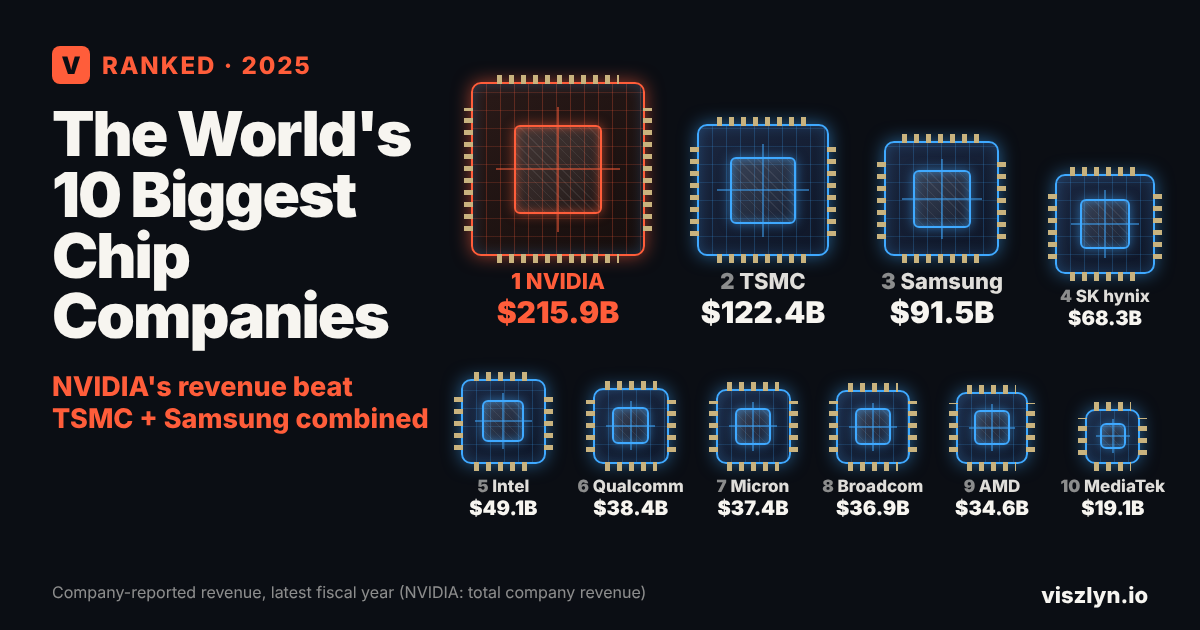
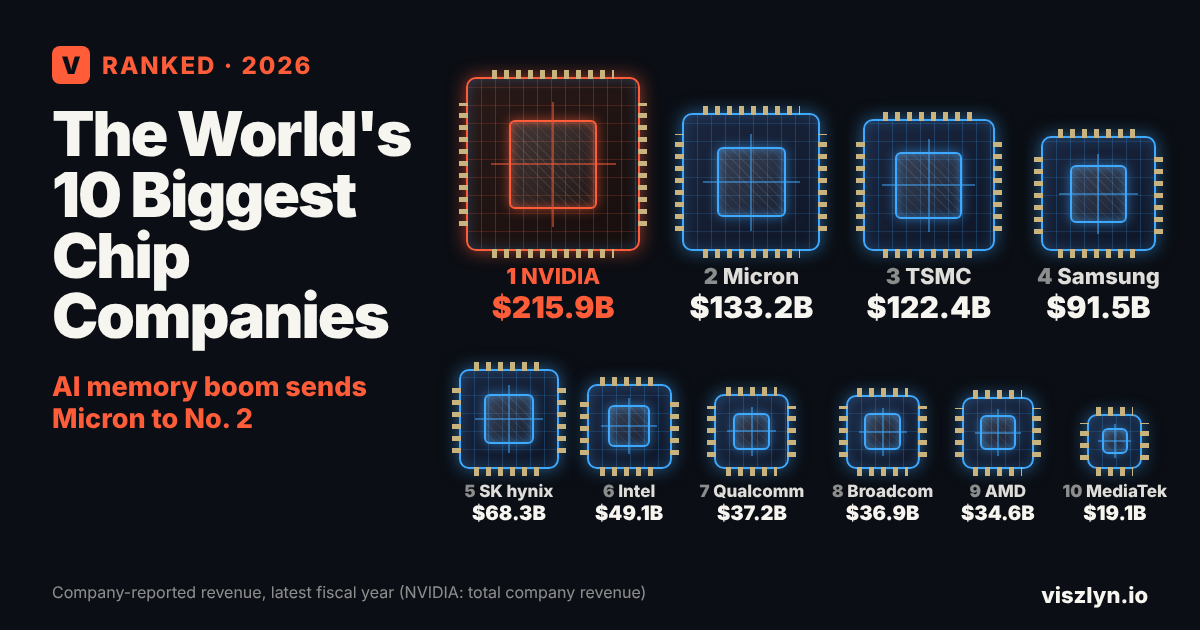
Update chip companies ranking: Micron FY2026 to No. 2, Qualcomm FY2026 QCT
Micron fiscal 2026 revenue $133,188M (8-K) and Qualcomm QCT $37,208M
(10-K). Fiscal-year mismatch explained, rank-change badges vs the Nov 10
edition, 10 Wikimedia Commons entry photos and a refreshed hero.

Claude-Session: https://claude.ai/code/session_01Lx7Mnbsr2j6Zre36XCS9Kp

Changed region(s): [[0.37, 0.0905, 0.9867, 0.5127], [0.0308, 0.573, 0.9867, 0.8444], [0.2467, 0.0905, 0.2775, 0.1206]]

diff --git a/src/data/rankings/biggest-chip-companies-2026.ts b/src/data/rankings/biggest-chip-companies-2026.ts
@@ -5,52 +5,53 @@ const SRC = "Company annual results (latest fiscal year)";
 export const biggestChipCompanies2026: RankingArticle = {
   slug: "biggest-chip-companies-2026",
 
-  metaTitle: "The 10 Biggest Chip Companies by Revenue in 2025, Ranked | Viszlyn",
+  metaTitle: "The 10 Biggest Chip Companies by Revenue in 2026, Ranked | Viszlyn",
   metaDescription:
-    "NVIDIA reported $215.9 billion in total revenue, ahead of TSMC ($122.4B) and Samsung's chip division ($91.5B). See the 10 biggest chip companies by reported revenue.",
+    "NVIDIA reported $215.9 billion in revenue. Micron jumped to No. 2 ($133.2B) on the AI memory boom, ahead of TSMC ($122.4B). See the 10 biggest chip companies by reported revenue.",
   ogTitle: "The World's 10 Biggest Chip Companies by Revenue",
   ogDescription:
     "NVIDIA reported $215.9B in total revenue, and its data center sales alone ($193.7B) beat any other chip company's reported revenue. The 10 biggest chipmakers, from their own reports.",
   twitterTitle: "Ranked: The World's 10 Biggest Chip Companies",
   twitterDescription:
-    "NVIDIA $215.9B, TSMC $122.4B, Samsung $91.5B. The 10 biggest semiconductor companies by revenue, from their latest annual results.",
+    "NVIDIA $215.9B, Micron $133.2B, TSMC $122.4B. The 10 biggest semiconductor companies by revenue, from their latest annual results.",
 
   eyebrow: "Business",
-  title: "The World's 10 Biggest Chip Companies by Revenue in 2025",
-  dek: "Ranked by the revenue each company reports for its chip business in its latest fiscal year. AI has put NVIDIA far ahead of every other chipmaker.",
+  title: "The World's 10 Biggest Chip Companies by Revenue in 2026",
+  dek: "Ranked by the revenue each company reports for its chip business in its latest fiscal year. AI has put NVIDIA far ahead of every other chipmaker, and the AI memory boom has sent Micron to No. 2.",
   publishedDate: "November 10, 2026",
-  lastUpdated: "November 10, 2026",
-  dataPeriod: "Latest fiscal year ending in 2025 or January 2026",
+  lastUpdated: "November 25, 2026",
+  dataPeriod: "Latest full fiscal year reported by November 25, 2026",
   heroImage: {
     src: "/heroes/biggest-chip-companies-2026.png",
     ogSrc: "/heroes/biggest-chip-companies-2026-og.png",
-    alt: "Bar chart of the world's 10 biggest chip companies by semiconductor revenue in their latest fiscal year, led by NVIDIA at $215.9 billion, then TSMC at $122.4 billion and Samsung at $91.5 billion.",
+    alt: "Bar chart of the world's 10 biggest chip companies by semiconductor revenue in their latest fiscal year, led by NVIDIA at $215.9 billion, then Micron at $133.2 billion and TSMC at $122.4 billion.",
   },
 
   quickAnswer:
-    "NVIDIA is the world's biggest chip company by reported revenue, with $215.9 billion in its fiscal year ended January 2026, up 65%. That is NVIDIA's total company revenue, which includes complete systems and software as well as chips. TSMC, which manufactures chips for other companies, is second with $122.4 billion, and Samsung's chip division is third with about $91.5 billion. NVIDIA's data center business alone brought in $193.7 billion. These are company-reported figures, not a standardized measure of chip sales like Gartner's.",
+    "NVIDIA is the world's biggest chip company by reported revenue, with $215.9 billion in its fiscal year ended January 2026, up 65%. That is NVIDIA's total company revenue, which includes complete systems and software as well as chips. Micron is second with $133.2 billion in its fiscal year ended September 2026, more than three and a half times its previous year, as AI drove demand for memory. TSMC, which manufactures chips for other companies, is third with $122.4 billion. NVIDIA's data center business alone brought in $193.7 billion. These are company-reported figures, not a standardized measure of chip sales like Gartner's.",
   introParagraph:
-    "This ranking uses the revenue each company reports for its chip business, or for the whole company where chips are its main business, in its latest full fiscal year. It is not a standardized market-share ranking: for NVIDIA, for example, the figure is total company revenue, which also includes complete data center systems and software. For companies that also sell other things, only the semiconductor part is counted: Samsung's Device Solutions division, Intel's product segments, Qualcomm's chip business (QCT) and Broadcom's semiconductor segment. Companies end their fiscal years at different times, from August 2025 (Micron) to January 2026 (NVIDIA), so the periods don't line up exactly. TSMC is included even though it is a foundry, a contract manufacturer that makes chips designed by other companies, including NVIDIA, AMD and Apple.",
+    "This ranking uses the revenue each company reports for its chip business, or for the whole company where chips are its main business, in its latest full fiscal year. It is not a standardized market-share ranking: for NVIDIA, for example, the figure is total company revenue, which also includes complete data center systems and software. For companies that also sell other things, only the semiconductor part is counted: Samsung's Device Solutions division, Intel's product segments, Qualcomm's chip business (QCT) and Broadcom's semiconductor segment. Companies end their fiscal years at different times, from November 2025 (Broadcom) to September 2026 (Micron and Qualcomm), so the periods don't line up: this is a table of each company's latest reported year, not one shared 12-month period. TSMC is included even though it is a foundry, a contract manufacturer that makes chips designed by other companies, including NVIDIA, AMD and Apple.",
   calloutBox: {
-    label: "AI made NVIDIA the giant of the chip industry",
-    body: "NVIDIA's revenue rose from $130.5 billion to $215.9 billion in one fiscal year. Its data center business, which sells the processors and networking used to train and run AI, accounted for $193.7 billion of that, up 68%. AI demand is also lifting memory makers: SK hynix's revenue rose about 47% and Micron's about 49%, helped by high-bandwidth memory (HBM) used in AI chips.",
+    label: "AI made NVIDIA the giant, and memory the boom",
+    body: "NVIDIA's revenue rose from $130.5 billion to $215.9 billion in one fiscal year. Its data center business, which sells the processors and networking used to train and run AI, accounted for $193.7 billion of that, up 68%. AI demand has also lifted memory makers. SK hynix's revenue rose 46.8% in 2025, and Micron's jumped from $37.4 billion to $133.2 billion in its fiscal year ended September 3, 2026. Micron's year runs nine months later than most companies here, so it captures more of the 2026 memory boom; it was also a 53-week year.",
   },
 
+  comparisonLabel: "the November 10, 2026 edition",
   chartTitle: "Company-reported revenue used in this ranking, latest fiscal year (US$ billions)",
   chartSource: SRC,
   chartTapNote: "NVIDIA's figure is total company revenue, including systems and software. For other diversified companies, the ranking uses the stated chip division or segment. These figures are not a standardized measure of chip sales. Tap any company to jump to its full breakdown below.",
   entryValueLabel: "Reported revenue:",
   chartItems: [
-    { rank: 1, name: "NVIDIA", value: "$215.9B", raw: 215.9 },
-    { rank: 2, name: "TSMC", value: "$122.4B", raw: 122.4 },
-    { rank: 3, name: "Samsung", value: "$91.5B", raw: 91.5 },
-    { rank: 4, name: "SK hynix", value: "$68.3B", raw: 68.3 },
-    { rank: 5, name: "Intel", value: "$49.1B", raw: 49.1 },
-    { rank: 6, name: "Qualcomm", value: "$38.4B", raw: 38.4 },
-    { rank: 7, name: "Micron", value: "$37.4B", raw: 37.4 },
-    { rank: 8, name: "Broadcom", value: "$36.9B", raw: 36.9 },
-    { rank: 9, name: "AMD", value: "$34.6B", raw: 34.6 },
-    { rank: 10, name: "MediaTek", value: "$19.1B", raw: 19.1 },
+    { rank: 1, name: "NVIDIA", value: "$215.9B", raw: 215.9, prevRank: 1 },
+    { rank: 2, name: "Micron", value: "$133.2B", raw: 133.2, prevRank: 7 },
+    { rank: 3, name: "TSMC", value: "$122.4B", raw: 122.4, prevRank: 2 },
+    { rank: 4, name: "Samsung", value: "$91.5B", raw: 91.5, prevRank: 3 },
+    { rank: 5, name: "SK hynix", value: "$68.3B", raw: 68.3, prevRank: 4 },
+    { rank: 6, name: "Intel", value: "$49.1B", raw: 49.1, prevRank: 5 },
+    { rank: 7, name: "Qualcomm", value: "$37.2B", raw: 37.2, prevRank: 6 },
+    { rank: 8, name: "Broadcom", value: "$36.9B", raw: 36.9, prevRank: 8 },
+    { rank: 9, name: "AMD", value: "$34.6B", raw: 34.6, prevRank: 9 },
+    { rank: 10, name: "MediaTek", value: "$19.1B", raw: 19.1, prevRank: 10 },
   ],
 
   detailedEntries: [
@@ -64,6 +65,7 @@ export const biggestChipCompanies2026: RankingArticle = {
       standoutFact: "It is one of only two Taiwanese companies in the top 10, alongside TSMC, which manufactures many of MediaTek's chips.",
       sourceTag: "MediaTek consolidated financial statements, 2025",
       wikipediaUrl: "https://en.wikipedia.org/wiki/MediaTek",
+      image: { src: "/rankings/biggest-chip-companies-2026/mediatek.webp", width: 1200, height: 900, alt: "Glass-fronted MediaTek headquarters building in Hsinchu, Taiwan", author: "CURSKA", license: "CC BY-SA 4.0", licenseUrl: "https://creativecommons.org/licenses/by-sa/4.0", sourceUrl: "https://commons.wikimedia.org/wiki/File:MEdiaTek%E6%9C%AC%E7%A4%BE.jpg", caption: "MediaTek headquarters, Hsinchu, Taiwan." },
     },
     {
       rank: 9,
@@ -75,6 +77,7 @@ export const biggestChipCompanies2026: RankingArticle = {
       standoutFact: "Its data center segment, which includes its AI accelerators, brought in $16.6 billion, up 32%, about half of AMD's total revenue.",
       sourceTag: "AMD 2025 annual results",
       wikipediaUrl: "https://en.wikipedia.org/wiki/AMD",
+      image: { src: "/rankings/biggest-chip-companies-2026/amd.webp", width: 1200, height: 887, alt: "AMD's glass office building at 2485 Augustine Drive, Santa Clara", author: "Coolcaesar", license: "CC BY-SA 4.0", licenseUrl: "https://creativecommons.org/licenses/by-sa/4.0", sourceUrl: "https://commons.wikimedia.org/wiki/File:2485_Augustine_Drive_headquarters_in_Santa_Clara,_California.jpg", caption: "AMD headquarters, Santa Clara, California." },
     },
     {
       rank: 8,
@@ -86,42 +89,34 @@ export const biggestChipCompanies2026: RankingArticle = {
       standoutFact: "Broadcom says its AI revenue reached $20 billion in fiscal 2025, up 65%, from custom AI chips and networking products.",
       sourceTag: "Broadcom fiscal 2025 results",
       wikipediaUrl: "https://en.wikipedia.org/wiki/Broadcom",
+      image: { src: "/rankings/biggest-chip-companies-2026/broadcom.webp", width: 1200, height: 900, alt: "Broadcom sign in front of its headquarters building in Irvine, California", author: "Coolcaesar", license: "CC BY-SA 3.0", licenseUrl: "https://creativecommons.org/licenses/by-sa/3.0", sourceUrl: "https://commons.wikimedia.org/wiki/File:Broadcomheadquarters.jpg", caption: "Broadcom's headquarters building, Irvine, California." },
     },
     {
       rank: 7,
-      name: "Micron",
-      earnings: "$37.4 billion",
-      category: "United States · Memory",
-      revenueSources: "DRAM, high-bandwidth memory (HBM), NAND flash storage",
-      blurb: "Micron's revenue was $37,378 million in its fiscal year ended August 28, 2025, up 48.9%, the second-fastest growth in the top 10 after NVIDIA.",
-      standoutFact: "Micron says its HBM and other data center memory products together brought in $10 billion in fiscal 2025. Because its fiscal year ended in August, its figures don't include the last four months of 2025.",
-      sourceTag: "Micron fiscal 2025 results",
-      wikipediaUrl: "https://en.wikipedia.org/wiki/Micron_Technology",
+      name: "Qualcomm",
+      earnings: "$37.2 billion",
+      category: "United States · Chip designer",
+      revenueSources: "Smartphone processors, automotive and IoT chips",
+      blurb: "Qualcomm's chip business (QCT) brought in $37,208 million in its fiscal year ended September 27, 2026, down 3.0% from $38,367 million. This excludes its patent licensing business (QTL); total company revenue was $43,120 million.",
+      standoutFact: "Handset chips still made up $24,072 million of QCT revenue, but fell 13.4%, while automotive chips grew 51.7% to $6,004 million.",
+      sourceTag: "Qualcomm Form 10-K, fiscal 2026",
+      wikipediaUrl: "https://en.wikipedia.org/wiki/Qualcomm",
+      image: { src: "/rankings/biggest-chip-companies-2026/qualcomm.webp", width: 1200, height: 1028, alt: "Qualcomm headquarters tower in San Diego", author: "Coolcaesar", license: "CC BY-SA 4.0", licenseUrl: "https://creativecommons.org/licenses/by-sa/4.0", sourceUrl: "https://commons.wikimedia.org/wiki/File:Qualcomm_Headquarters_La_Jolla.jpg", caption: "Qualcomm headquarters, San Diego, California." },
     },
     {
       rank: 6,
-      name: "Qualcomm",
-      earnings: "$38.4 billion",
-      category: "United States · Chip designer",
-      revenueSources: "Smartphone processors, automotive and IoT chips",
-      blurb: "Qualcomm's chip business (QCT) brought in $38,367 million in its fiscal year ended September 28, 2025, up 15.6%. This excludes its patent licensing business (QTL).",
-      standoutFact: "Qualcomm's Snapdragon processors are used in many of the world's Android smartphones, its biggest chip market.",
-      sourceTag: "Qualcomm fiscal 2025 results",
-      wikipediaUrl: "https://en.wikipedia.org/wiki/Qualcomm",
-    },
-    {
-      rank: 5,
       name: "Intel",
       earnings: "$49.1 billion",
       category: "United States · Chip designer and manufacturer",
       revenueSources: "PC processors, data center and AI chips",
       blurb: "Intel's product segments (Client Computing and Data Center and AI) brought in $49,147 million in 2025. Including its foundry business, Intel's total revenue was $52,853 million.",
-      standoutFact: "Intel is the only company in the top 10 whose chip revenue fell, down 0.7% from $49,471 million in 2024.",
+      standoutFact: "Intel's chip revenue fell 0.7% from $49,471 million in 2024. Qualcomm's QCT is the only other top-10 figure that fell.",
       sourceTag: "Intel 2025 annual results",
       wikipediaUrl: "https://en.wikipedia.org/wiki/Intel",
+      image: { src: "/rankings/biggest-chip-companies-2026/intel.webp", width: 1200, height: 802, alt: "Intel's Robert Noyce Building headquarters in Santa Clara", author: "Coolcaesar", license: "CC BY-SA 4.0", licenseUrl: "https://creativecommons.org/licenses/by-sa/4.0", sourceUrl: "https://commons.wikimedia.org/wiki/File:Intel_Headquarters_in_2023.jpg", caption: "Intel headquarters (Robert Noyce Building), Santa Clara, California, 2023." },
     },
     {
-      rank: 4,
+      rank: 5,
       name: "SK hynix",
       earnings: "$68.3 billion",
       category: "South Korea · Memory",
@@ -130,9 +125,10 @@ export const biggestChipCompanies2026: RankingArticle = {
       standoutFact: "SK hynix says its revenue from high-bandwidth memory, used in AI processors, more than doubled in 2025.",
       sourceTag: "SK hynix FY2025 results",
       wikipediaUrl: "https://en.wikipedia.org/wiki/SK_Hynix",
+      image: { src: "/rankings/biggest-chip-companies-2026/sk-hynix.webp", width: 1200, height: 900, alt: "Close-up of an SK hynix memory chip on a blue circuit board", author: "Raimond Spekking", license: "CC BY-SA 4.0", licenseUrl: "https://creativecommons.org/licenses/by-sa/4.0", sourceUrl: "https://commons.wikimedia.org/wiki/File:SK_Hynix_-_H5TC4G83MFR-8390.jpg", caption: "An SK hynix DDR3L memory chip." },
     },
     {
-      rank: 3,
+      rank: 4,
       name: "Samsung",
       earnings: "$91.5 billion",
       category: "South Korea · Memory, chip design and manufacturing",
@@ -141,9 +137,10 @@ export const biggestChipCompanies2026: RankingArticle = {
       standoutFact: "Samsung's figure includes Samsung Foundry, its contract manufacturing business, which it does not report separately.",
       sourceTag: "Samsung Electronics FY2025 results",
       wikipediaUrl: "https://en.wikipedia.org/wiki/Samsung_Electronics",
+      image: { src: "/rankings/biggest-chip-companies-2026/samsung.webp", width: 900, height: 1200, alt: "Samsung Electronics headquarters tower in Suwon, South Korea", author: "hyolee2", license: "CC BY-SA 4.0", licenseUrl: "https://creativecommons.org/licenses/by-sa/4.0", sourceUrl: "https://commons.wikimedia.org/wiki/File:Samsung_Electronics_Suwon.JPG", caption: "Samsung Electronics headquarters, Suwon, South Korea." },
     },
     {
-      rank: 2,
+      rank: 3,
       name: "TSMC",
       earnings: "$122.4 billion",
       category: "Taiwan · Foundry (contract manufacturer)",
@@ -152,6 +149,19 @@ export const biggestChipCompanies2026: RankingArticle = {
       standoutFact: "TSMC doesn't design its own chips; it manufactures them for other companies, which is why some industry rankings, such as Gartner's, leave it out.",
       sourceTag: "TSMC 4Q25 Management Report",
       wikipediaUrl: "https://en.wikipedia.org/wiki/TSMC",
+      image: { src: "/rankings/biggest-chip-companies-2026/tsmc.webp", width: 1200, height: 801, alt: "TSMC headquarters and Fab 12A in Hsinchu at dusk, with light trails from traffic", author: "曾 成訓", license: "CC BY 2.0", licenseUrl: "https://creativecommons.org/licenses/by/2.0", sourceUrl: "https://commons.wikimedia.org/wiki/File:TSMC_Fab_12A_02.jpg", caption: "TSMC headquarters and Fab 12A, Hsinchu, Taiwan." },
+    },
+    {
+      rank: 2,
+      name: "Micron",
+      earnings: "$133.2 billion",
+      category: "United States · Memory",
+      revenueSources: "DRAM, high-bandwidth memory (HBM), NAND flash storage",
+      blurb: "Micron's revenue was $133,188 million in its fiscal year ended September 3, 2026, more than three and a half times the $37,378 million of fiscal 2025. That moved it from seventh to second in this ranking.",
+      standoutFact: "Its fiscal year ended in September 2026, later than any other top-10 company's except Qualcomm's, so it reflects the 2026 jump in memory demand from AI that calendar-2025 figures for Samsung and SK hynix largely predate. It was also a 53-week year.",
+      sourceTag: "Micron fiscal 2026 results (Form 8-K)",
+      wikipediaUrl: "https://en.wikipedia.org/wiki/Micron_Technology",
+      image: { src: "/rankings/biggest-chip-companies-2026/micron.webp", width: 1200, height: 900, alt: "Micron's wafer fab building in Taichung, Taiwan", author: "Thingreenline4546", license: "CC BY-SA 4.0", licenseUrl: "https://creativecommons.org/licenses/by-sa/4.0", sourceUrl: "https://commons.wikimedia.org/wiki/File:Micron_Fab_in_Taichung,_Taiwan.jpeg", caption: "Micron's wafer fab in Taichung, Taiwan." },
     },
     {
       rank: 1,
@@ -163,6 +173,7 @@ export const biggestChipCompanies2026: RankingArticle = {
       standoutFact: "Its data center business brought in $193.7 billion, about 90% of NVIDIA's total, and more than TSMC's entire revenue. NVIDIA's revenue is about 1.8 times TSMC's, and more than TSMC and Samsung's chip division combined ($214.0 billion).",
       sourceTag: "NVIDIA fiscal 2026 results",
       wikipediaUrl: "https://en.wikipedia.org/wiki/Nvidia",
+      image: { src: "/rankings/biggest-chip-companies-2026/nvidia.webp", width: 1200, height: 734, alt: "NVIDIA's Endeavor headquarters building and entrance sign in Santa Clara", author: "Coolcaesar", license: "CC BY-SA 4.0", licenseUrl: "https://creativecommons.org/licenses/by-sa/4.0", sourceUrl: "https://commons.wikimedia.org/wiki/File:NVIDIA_Headquarters.jpg", caption: "NVIDIA headquarters (Endeavor building), Santa Clara, California." },
     },
   ],
 
@@ -171,18 +182,20 @@ export const biggestChipCompanies2026: RankingArticle = {
     label: "NVIDIA's revenue in its latest fiscal year, up 65%",
     comparisonStat: "$193.7B",
     comparisonLabel: "NVIDIA's data center revenue alone, more than any other chip company's total",
-    note: "AI is reshaping the chip industry's ranking. NVIDIA's revenue is now about 1.8 times TSMC's, and AI memory has pushed SK hynix (+46.8%) and Micron (+48.9%) to the fastest growth in the top 10 after NVIDIA. Intel, long the industry's biggest chipmaker, is the only top-10 company whose chip revenue fell. Gartner, which measures chip sales by calendar year and excludes foundries, also ranks NVIDIA first for 2025, at $125.7 billion, making it the first chip vendor ever to pass $100 billion in Gartner's ranking.",
+    note: "AI is reshaping the chip industry's ranking. NVIDIA's revenue is about 1.8 times TSMC's, and AI memory demand lifted Micron's revenue 256% in its fiscal 2026 and SK hynix's 46.8% in 2025. Intel, long the industry's biggest chipmaker, and Qualcomm are the only top-10 companies whose chip revenue fell. Gartner, which measures chip sales by calendar year and excludes foundries, also ranks NVIDIA first for 2025, at $125.7 billion, making it the first chip vendor ever to pass $100 billion in Gartner's ranking.",
   },
 
   sourceNote: {
-    dataPeriod: "Each company's latest full fiscal year ending between August 2025 and January 2026",
-    lastUpdated: "November 10, 2026",
+    dataPeriod: "Each company's latest full fiscal year reported by November 25, 2026 (ending between November 2025 and September 2026)",
+    lastUpdated: "November 25, 2026",
     sources:
-      "Company annual results and filings: NVIDIA (fiscal 2026, ended January 25, 2026), TSMC (4Q25 Management Report), Samsung Electronics (FY2025 results and 2025 4Q Interim Report, Device Solutions division), SK hynix (FY2025 results), Intel, Qualcomm, Micron, Broadcom, AMD and Texas Instruments (earnings releases and SEC filings), MediaTek (2025 consolidated financial statements). Comparison: Gartner, \"Gartner Says Worldwide Semiconductor Revenue Grew 21% in 2025\" (January 12, 2026). Exchange rate: Federal Reserve H.10.",
+      "Company annual results and filings: NVIDIA (fiscal 2026, ended January 25, 2026), Micron (fiscal 2026, ended September 3, 2026, Form 8-K), Qualcomm (fiscal 2026, ended September 27, 2026, Form 10-K), TSMC (4Q25 Management Report), Samsung Electronics (FY2025 results and 2025 4Q Interim Report, Device Solutions division), SK hynix (FY2025 results), Intel, Broadcom, AMD and Texas Instruments (earnings releases and SEC filings), MediaTek (2025 consolidated financial statements). Comparison: Gartner, \"Gartner Says Worldwide Semiconductor Revenue Grew 21% in 2025\" (January 12, 2026). Exchange rate: Federal Reserve H.10.",
     methodology:
-      "Companies are ranked by the revenue they report for their chip business in their latest full fiscal year. These are company-reported figures, not a standardized measure of semiconductor sales, so they are not directly comparable to market-share estimates such as Gartner's. NVIDIA's figure is its total company revenue, which includes complete data center systems and software as well as chips. Where a company has other businesses, only its chip segment is counted: Samsung's Device Solutions division (which includes Samsung Foundry), Intel's Client Computing and Data Center and AI segments (excluding Intel Foundry), Qualcomm's QCT segment (excluding licensing) and Broadcom's semiconductor solutions segment (excluding software). NVIDIA, AMD, Micron, SK hynix, MediaTek and TSMC are counted by total revenue. Fiscal years differ: NVIDIA's ended January 25, 2026, Broadcom's in November 2025, Qualcomm's in September 2025 and Micron's in August 2025; the rest follow the calendar year. TSMC and MediaTek US dollar figures are as the companies state them. Samsung and SK hynix figures are converted by Viszlyn at the 2025 average rate of ₩1,421.40 per US dollar (Federal Reserve H.10). Percentage changes are calculated from the reported figures in each company's own currency. This ranking includes TSMC, a foundry; without it, Texas Instruments ($17.7 billion) would be 10th. Gartner's calendar-year ranking counts only chip sales and excludes foundries, so its figures differ (for example, NVIDIA $125.7 billion); Gartner also includes Apple ($24.6 billion, its estimate of Apple's in-house chips), which reports no chip revenue of its own.",
+      "Companies are ranked by the revenue they report for their chip business in their latest full fiscal year. These are company-reported figures, not a standardized measure of semiconductor sales, so they are not directly comparable to market-share estimates such as Gartner's. NVIDIA's figure is its total company revenue, which includes complete data center systems and software as well as chips. Where a company has other businesses, only its chip segment is counted: Samsung's Device Solutions division (which includes Samsung Foundry), Intel's Client Computing and Data Center and AI segments (excluding Intel Foundry), Qualcomm's QCT segment (excluding licensing) and Broadcom's semiconductor solutions segment (excluding software). NVIDIA, AMD, Micron, SK hynix, MediaTek and TSMC are counted by total revenue. Fiscal years differ: Broadcom's ended November 2, 2025 (its fiscal 2026 results were not yet published on November 25, 2026), NVIDIA's on January 25, 2026, Micron's on September 3, 2026 (a 53-week year) and Qualcomm's on September 27, 2026; the rest follow the calendar year 2025. This is a table of each company's latest reported year, not a same-period comparison, which favours companies whose years ended later in 2026. TSMC and MediaTek US dollar figures are as the companies state them. Samsung and SK hynix figures are converted by Viszlyn at the 2025 average rate of ₩1,421.40 per US dollar (Federal Reserve H.10). Percentage changes are calculated from the reported figures in each company's own currency. This ranking includes TSMC, a foundry; without it, Texas Instruments ($17.7 billion) would be 10th. Infineon (€16.4 billion in its fiscal year ended September 2026) is also just below MediaTek. Gartner's calendar-year ranking counts only chip sales and excludes foundries, so its figures differ (for example, NVIDIA $125.7 billion); Gartner also includes Apple ($24.6 billion, its estimate of Apple's in-house chips), which reports no chip revenue of its own.",
     sourceLinks: [
       { label: "NVIDIA: Financial Results for Fourth Quarter and Fiscal 2026", href: "https://investor.nvidia.com/news/press-release-details/2026/NVIDIA-Announces-Financial-Results-for-Fourth-Quarter-and-Fiscal-2026" },
+      { label: "Micron: fiscal Q4 and full-year 2026 results (Form 8-K exhibit)", href: "https://www.sec.gov/Archives/edgar/data/0000723125/000072312526000018/a2026q4ex991-pressrelease.htm" },
+      { label: "Qualcomm Form 10-K, fiscal 2026 (segment information)", href: "https://www.sec.gov/Archives/edgar/data/804328/000080432826000128/qcom-20260927.htm" },
       { label: "TSMC 4Q25 Management Report (PDF)", href: "https://investor.tsmc.com/english/encrypt/files/encrypt_file/reports/2026-01/00fe50f72b38d74e6b9b066398f020f337cd4e9d/4Q25%20Management%20Report.pdf" },
       { label: "Samsung Electronics: Q4 and FY2025 results", href: "https://news.samsungsemiconductor.com/global/samsung-electronics-announces-fourth-quarter-and-fy-2025-results/" },
       { label: "Samsung Electronics: 2025 4Q Interim Report (DS Division full-year revenue) (PDF)", href: "https://images.samsung.com/is/content/samsung/assets/global/ir/docs/2025_4Q_Interim_Report.pdf" },
@@ -210,9 +223,14 @@ export const biggestChipCompanies2026: RankingArticle = {
         "Apple designs its own chips but uses them in its own products and doesn't report chip revenue. Gartner estimates the value of Apple's in-house chips at $24.6 billion for 2025, but there is no company-reported figure to rank.",
     },
     {
+      question: "Why did Micron jump to No. 2?",
+      answer:
+        "Micron's latest fiscal year ended on September 3, 2026, so its figure covers the first eight months of 2026, when memory demand from AI surged. Its revenue rose from $37.4 billion to $133.2 billion. Samsung, SK hynix and TSMC are ranked on calendar 2025, so their 2026 growth isn't counted yet.",
+    },
+    {
       question: "Why are memory companies growing so fast?",
       answer:
-        "AI processors need large amounts of fast memory, especially high-bandwidth memory (HBM). SK hynix's revenue rose 46.8% in 2025 and Micron's 48.9% in its fiscal 2025, and SK hynix says its HBM revenue more than doubled.",
+        "AI processors need large amounts of fast memory, especially high-bandwidth memory (HBM). SK hynix's revenue rose 46.8% in 2025, and the company says its HBM revenue more than doubled. Micron's revenue rose from $37.4 billion to $133.2 billion in its fiscal year ended September 2026.",
     },
     {
       question: "Why do these numbers differ from Gartner's ranking?",
@@ -223,6 +241,7 @@ export const biggestChipCompanies2026: RankingArticle = {
 
   relatedLinks: [
     { title: "The 10 Most Valuable AI Companies in 2026", href: "/rankings/most-valuable-ai-companies-2026" },
+    { title: "The 10 Longest-Serving Tech CEOs in 2026", href: "/rankings/longest-serving-tech-ceos-2026" },
     { title: "The 10 Most Valuable Companies in the World in 2026", href: "/rankings/worlds-most-valuable-companies-2026" },
     { title: "6 of the Biggest US Tech IPOs and Listings of 2026 So Far", href: "/rankings/biggest-tech-ipos-2026" },
     { title: "The World's 20 Largest Economies in 2030: IMF Projections Ranked", href: "/rankings/largest-economies-2030-imf-projections" },
